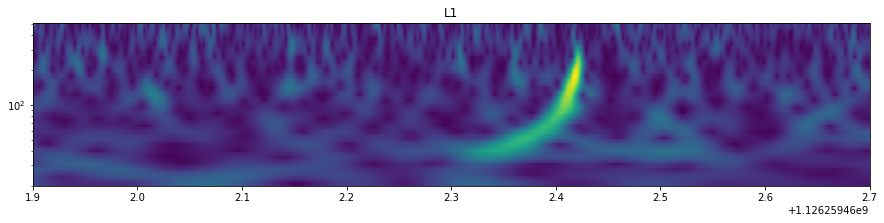
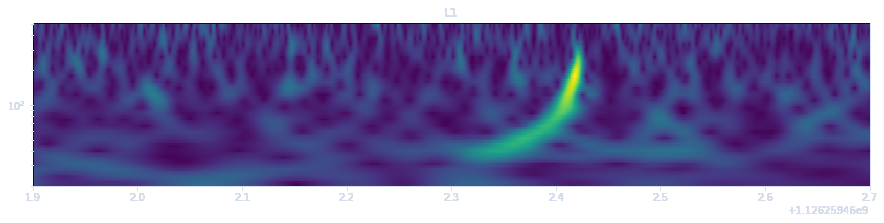
Add GW strain plot, darkify L1 spectrogram, credit Bose.X in caption

diff --git a/src/app/page.tsx b/src/app/page.tsx
@@ -2,6 +2,7 @@ import Image from "next/image";
 import HeroSim from "@/components/HeroSim";
 import Reveal from "@/components/Reveal";
 import StatBand from "@/components/StatBand";
+import gwStrain from "../../public/research/gw-strain.png";
 import qtH1 from "../../public/research/qtransform-h1.png";
 import qtL1 from "../../public/research/qtransform-l1.png";
 import { STACK_ICONS } from "@/lib/stack-icons";
@@ -613,20 +614,26 @@ export default function Home() {
               </div>
               <figure className="mt-8 rounded-xl border border-line bg-panel p-5">
                 <Image
+                  src={gwStrain}
+                  alt="Whitened strain time series of gravitational-wave event GW150914 in the LIGO H1 and L1 detectors"
+                  className="w-full"
+                />
+                <Image
                   src={qtH1}
                   alt="Q-transform spectrogram of gravitational-wave event GW150914 in the LIGO Hanford (H1) detector"
-                  className="w-full"
+                  className="mt-3 w-full"
                 />
                 <Image
                   src={qtL1}
                   alt="Q-transform spectrogram of gravitational-wave event GW150914 in the LIGO Livingston (L1) detector"
-                  className="mt-3 w-full rounded-md"
+                  className="mt-3 w-full"
                 />
                 <figcaption className="mt-4 font-mono text-[11px] leading-5 text-faint">
-                  the chirp of two black holes colliding — Q-transform
-                  spectrograms of GW150914 in the LIGO Hanford (H1) and
-                  Livingston (L1) detectors, from my gravitational-wave
-                  classification research ·{" "}
+                  the chirp of two black holes colliding — whitened strain and
+                  Q-transform spectrograms of GW150914 in the LIGO Hanford (H1)
+                  and Livingston (L1) detectors, from my gravitational-wave
+                  classification research at the Bose.X Center for
+                  Astrophysical Research ·{" "}
                   <a
                     href="https://github.com/jaswantjayacumaar/Classyfying-LensGW-DL"
                     target="_blank"
